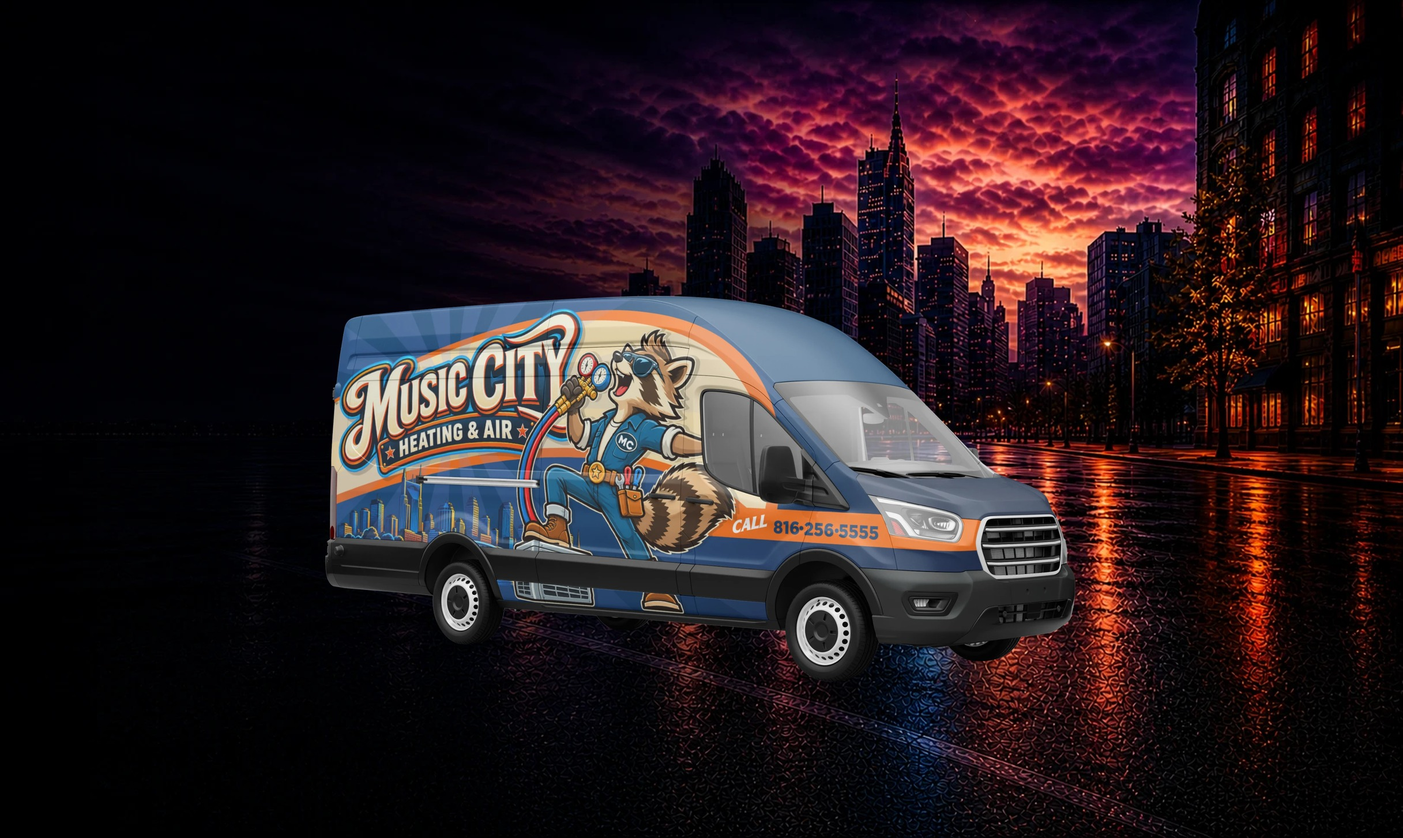
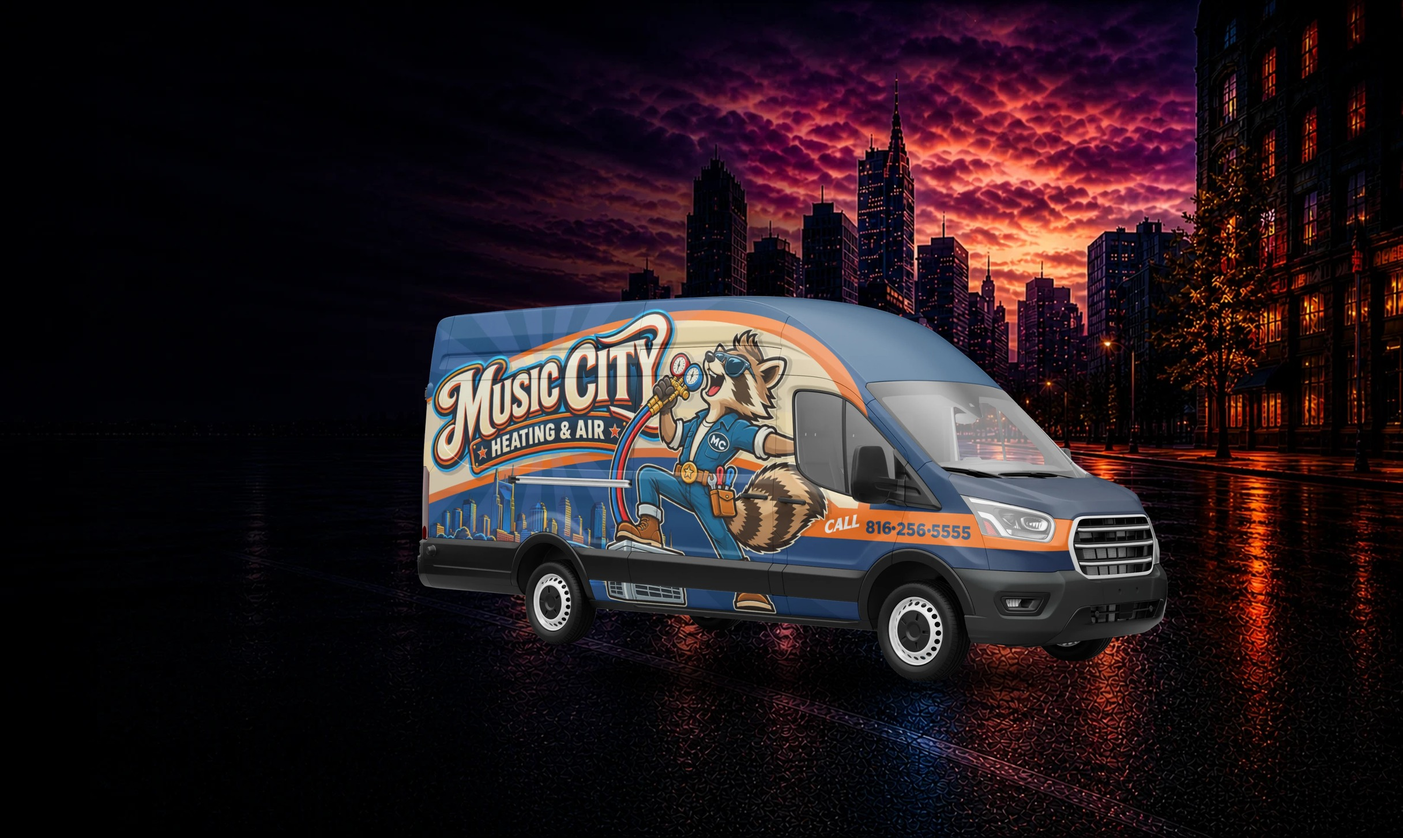
Shift hero van right and ground it with a layered shadow
Move the van further from the left-edge gradient so the "Music City"
lettering stays fully visible, tighten the gradient's fade distance to
match, and add a two-layer contact + ambient shadow under the wheels
so the van reads as sitting on the street rather than pasted in.

Changed region(s): [[0.2187, 0.3407, 0.8434, 0.8362]]

diff --git a/app/page.tsx b/app/page.tsx
@@ -83,7 +83,7 @@ export default async function HomePage({
             sizes="62vw"
             className="object-cover object-[35%_center]"
           />
-          <div className="absolute inset-0 bg-gradient-to-r from-brand-navy via-brand-navy/70 via-25% to-transparent to-55%" />
+          <div className="absolute inset-0 bg-gradient-to-r from-brand-navy via-brand-navy/60 via-15% to-transparent to-38%" />
           <div className="absolute inset-0 bg-gradient-to-t from-brand-navy/40 via-transparent to-transparent" />
         </div>
 
